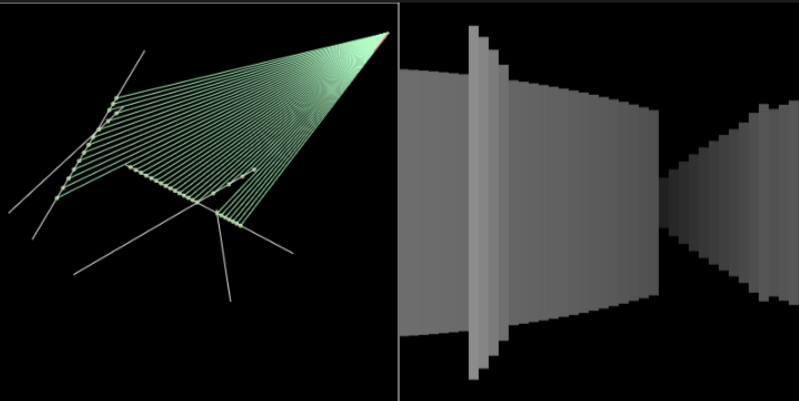
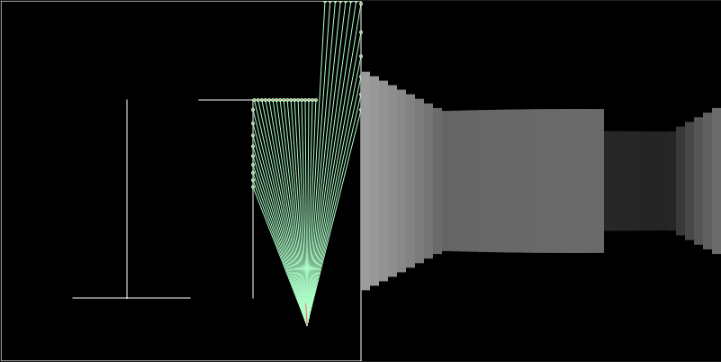
Walls and preview image update4d

diff --git a/sketch.js b/sketch.js
@@ -11,12 +11,12 @@ class Wall {
 }
 
 
-
 class Ray {
-  constructor(x, y) {
+  constructor(x, y, heading) {
     this.pos = createVector(x, y);
     this.direction = createVector(0, -1);
     this.castDistance = 999999;
+    this.heading = heading;
   }
 
   show() {
@@ -27,8 +27,8 @@ class Ray {
   lookAt(x, y) {
     this.direction.x = x - this.pos.x;
     this.direction.y = y - this.pos.y;
-
     this.direction.normalize();
+    this.rotate(this.heading/1.1);
   }
 
   cast(wall) {
@@ -42,13 +42,23 @@ class Ray {
     const y3 = this.pos.y;
     const y4 = this.pos.y + this.direction.y;
 
-    const t = ((x1 - x3) * (y3 - y4) - (y1 - y3) * (x3 - x4)) / ((x1 - x2) * (y3 - y4) - (y1 - y2) * (x3 - x4));
+    var den = ((x1 - x2) * (y3 - y4) - (y1 - y2) * (x3 - x4));
+    if (den == 0) {
+      return null;
+    }
+
+    const t = ((x1 - x3) * (y3 - y4) - (y1 - y3) * (x3 - x4)) / den;
 
     if (t == 0) {
       return null;
     }
 
-    const u = -1 * (((x1 - x2) * (y1 - y3) - (y1 - y2) * (x1 - x3)) / ((x1 - x2) * (y3 - y4) - (y1 - y2) * (x3 - x4)));
+    den = ((x1 - x2) * (y3 - y4) - (y1 - y2) * (x3 - x4));
+    if (den == 0) {
+      return null;
+    }
+
+    const u = -1 * (((x1 - x2) * (y1 - y3) - (y1 - y2) * (x1 - x3)) / den);
 
     if (u == 0) {
       return null;
@@ -64,7 +74,6 @@ class Ray {
 
   rotate(degree) {
     const tmpX = this.direction.x;
-
     // convert degrees to radians needed
     this.direction.x = this.direction.x * cos(degree * 3.14 / 180) - this.direction.y * sin(degree * 3.14 / 180);
     this.direction.y = tmpX * sin(degree * 3.14 / 180) + this.direction.y * cos(degree * 3.14 / 180);
@@ -81,9 +90,12 @@ class Cam {
 
     this.rays = [];
 
-    for (var i = 0; i < this.raysCount; i++) {
-      var newRay = new Ray(this.pos.x, this.pos.y);
-      newRay.rotate(i * this.raysDensity);
+    for (var i = this.raysCount / 2 * -1; i <= 0; i++) {
+      var newRay = new Ray(this.pos.x, this.pos.y, i);
+      this.rays.push(newRay);
+    }
+    for (var i = 1; i < this.raysCount / 2; i++) {
+      var newRay = new Ray(this.pos.x, this.pos.y, i);
       this.rays.push(newRay);
     }
 
@@ -92,7 +104,6 @@ class Cam {
   lookAt(x, y) {
     this.direction.x = x - this.pos.x;
     this.direction.y = y - this.pos.y;
-
     this.direction.normalize();
 
     this.updateRays(x, y);
@@ -123,14 +134,21 @@ class Cam {
   }
 
   show() {
-    for (var i = 0; i < this.raysCount; i++) {
-
-      var ray = this.rays[i];
+    for (var rayNumber = 0; rayNumber < this.raysCount; rayNumber++) {
+      var ray = this.rays[rayNumber];
       ray.show();
+      this.castWalls(rayNumber);
+    }
 
+    stroke(255, 100, 100);
+    line(this.pos.x, this.pos.y, (this.pos.x + this.direction.x * 24), (this.pos.y + this.direction.y * 24));
+  }
+  
+  castWalls(rayNumber) {
       var closestPoint = null;
       var closestDistance = 999999;
-
+      var ray = this.rays[rayNumber];
+    
       for (var w = 0; w < walls.length; w++) {
         const intersectPoint = ray.cast(walls[w]);
 
@@ -149,29 +167,20 @@ class Cam {
           closestDistance = distance;
           closestPoint = intersectPoint;
         }
-
       }
 
       if (closestPoint != null) {
         fill(255, 100, 100);
         ellipse(closestPoint.x, closestPoint.y, 3, 3);
         line(this.pos.x, this.pos.y, closestPoint.x, closestPoint.y);
-        this.rays[i].castDistance = closestDistance;
+        this.rays[rayNumber].castDistance = closestDistance;
       }
-    }
-
-    stroke(255, 100, 100);
-    line(this.pos.x, this.pos.y, (this.pos.x + this.direction.x * 24), (this.pos.y + this.direction.y * 24));
-
   }
 
   updateRays(x, y) {
-
     for (var i = 0; i < this.raysCount; i++) {
       this.rays[i].pos = this.pos;
       this.rays[i].lookAt(x, y);
-      this.rays[i].rotate(i);
-
     }
   }
 
@@ -181,21 +190,18 @@ class Cam {
 
       fill(255 - dist * 0.3 * height / 200);
       noStroke();
-      
-      var pos_x = 400 + i * height / this.raysCount;
-      var _height = 40000 * 1/dist;
-      var pos_y = (400 - _height) / 2;
-      var _width = height / this.raysCount;
-      
-      rect(pos_x, pos_y, _width, _height);
 
+      var pos_x = height + i * height / this.raysCount;
+      var _height = height * 100 * 1 / dist;
+      var pos_y = (height - _height) / 2;
+      var _width = height / this.raysCount;
+
+      rect(pos_x, pos_y, _width, _height);
     }
   }
-
 }
 
 var walls = [];
-var ray;
 var cam;
 
 function setup() {
@@ -206,13 +212,15 @@ function setup() {
   walls.push(new Wall(0, 400, 400, 400));
   walls.push(new Wall(400, 0, 400, 400));
 
-  for (var i = 0; i < 5; i++) {
-    walls.push(new Wall(random(0, 300), random(0, 300), random(0, 300), random(0, 300)));
-  }
+  walls.push(new Wall(280, 110, 280, 330));
+  walls.push(new Wall(280, 110, 350, 110));
+  walls.push(new Wall(220, 110, 280, 110));
+  
+  walls.push(new Wall(140, 110, 140, 330));
+  walls.push(new Wall(140, 330, 210, 330));
+  walls.push(new Wall(140, 330, 80, 330));
 
-  ray = new Ray(160, 250);
-  cam = new Cam(165, 249, 40);
-
+  cam = new Cam(340, 360, 40);
 }
 
 function draw() {
@@ -227,5 +235,4 @@ function draw() {
   cam.lookAt(mouseX, mouseY);
   cam.show();
   cam.render();
-
 }
